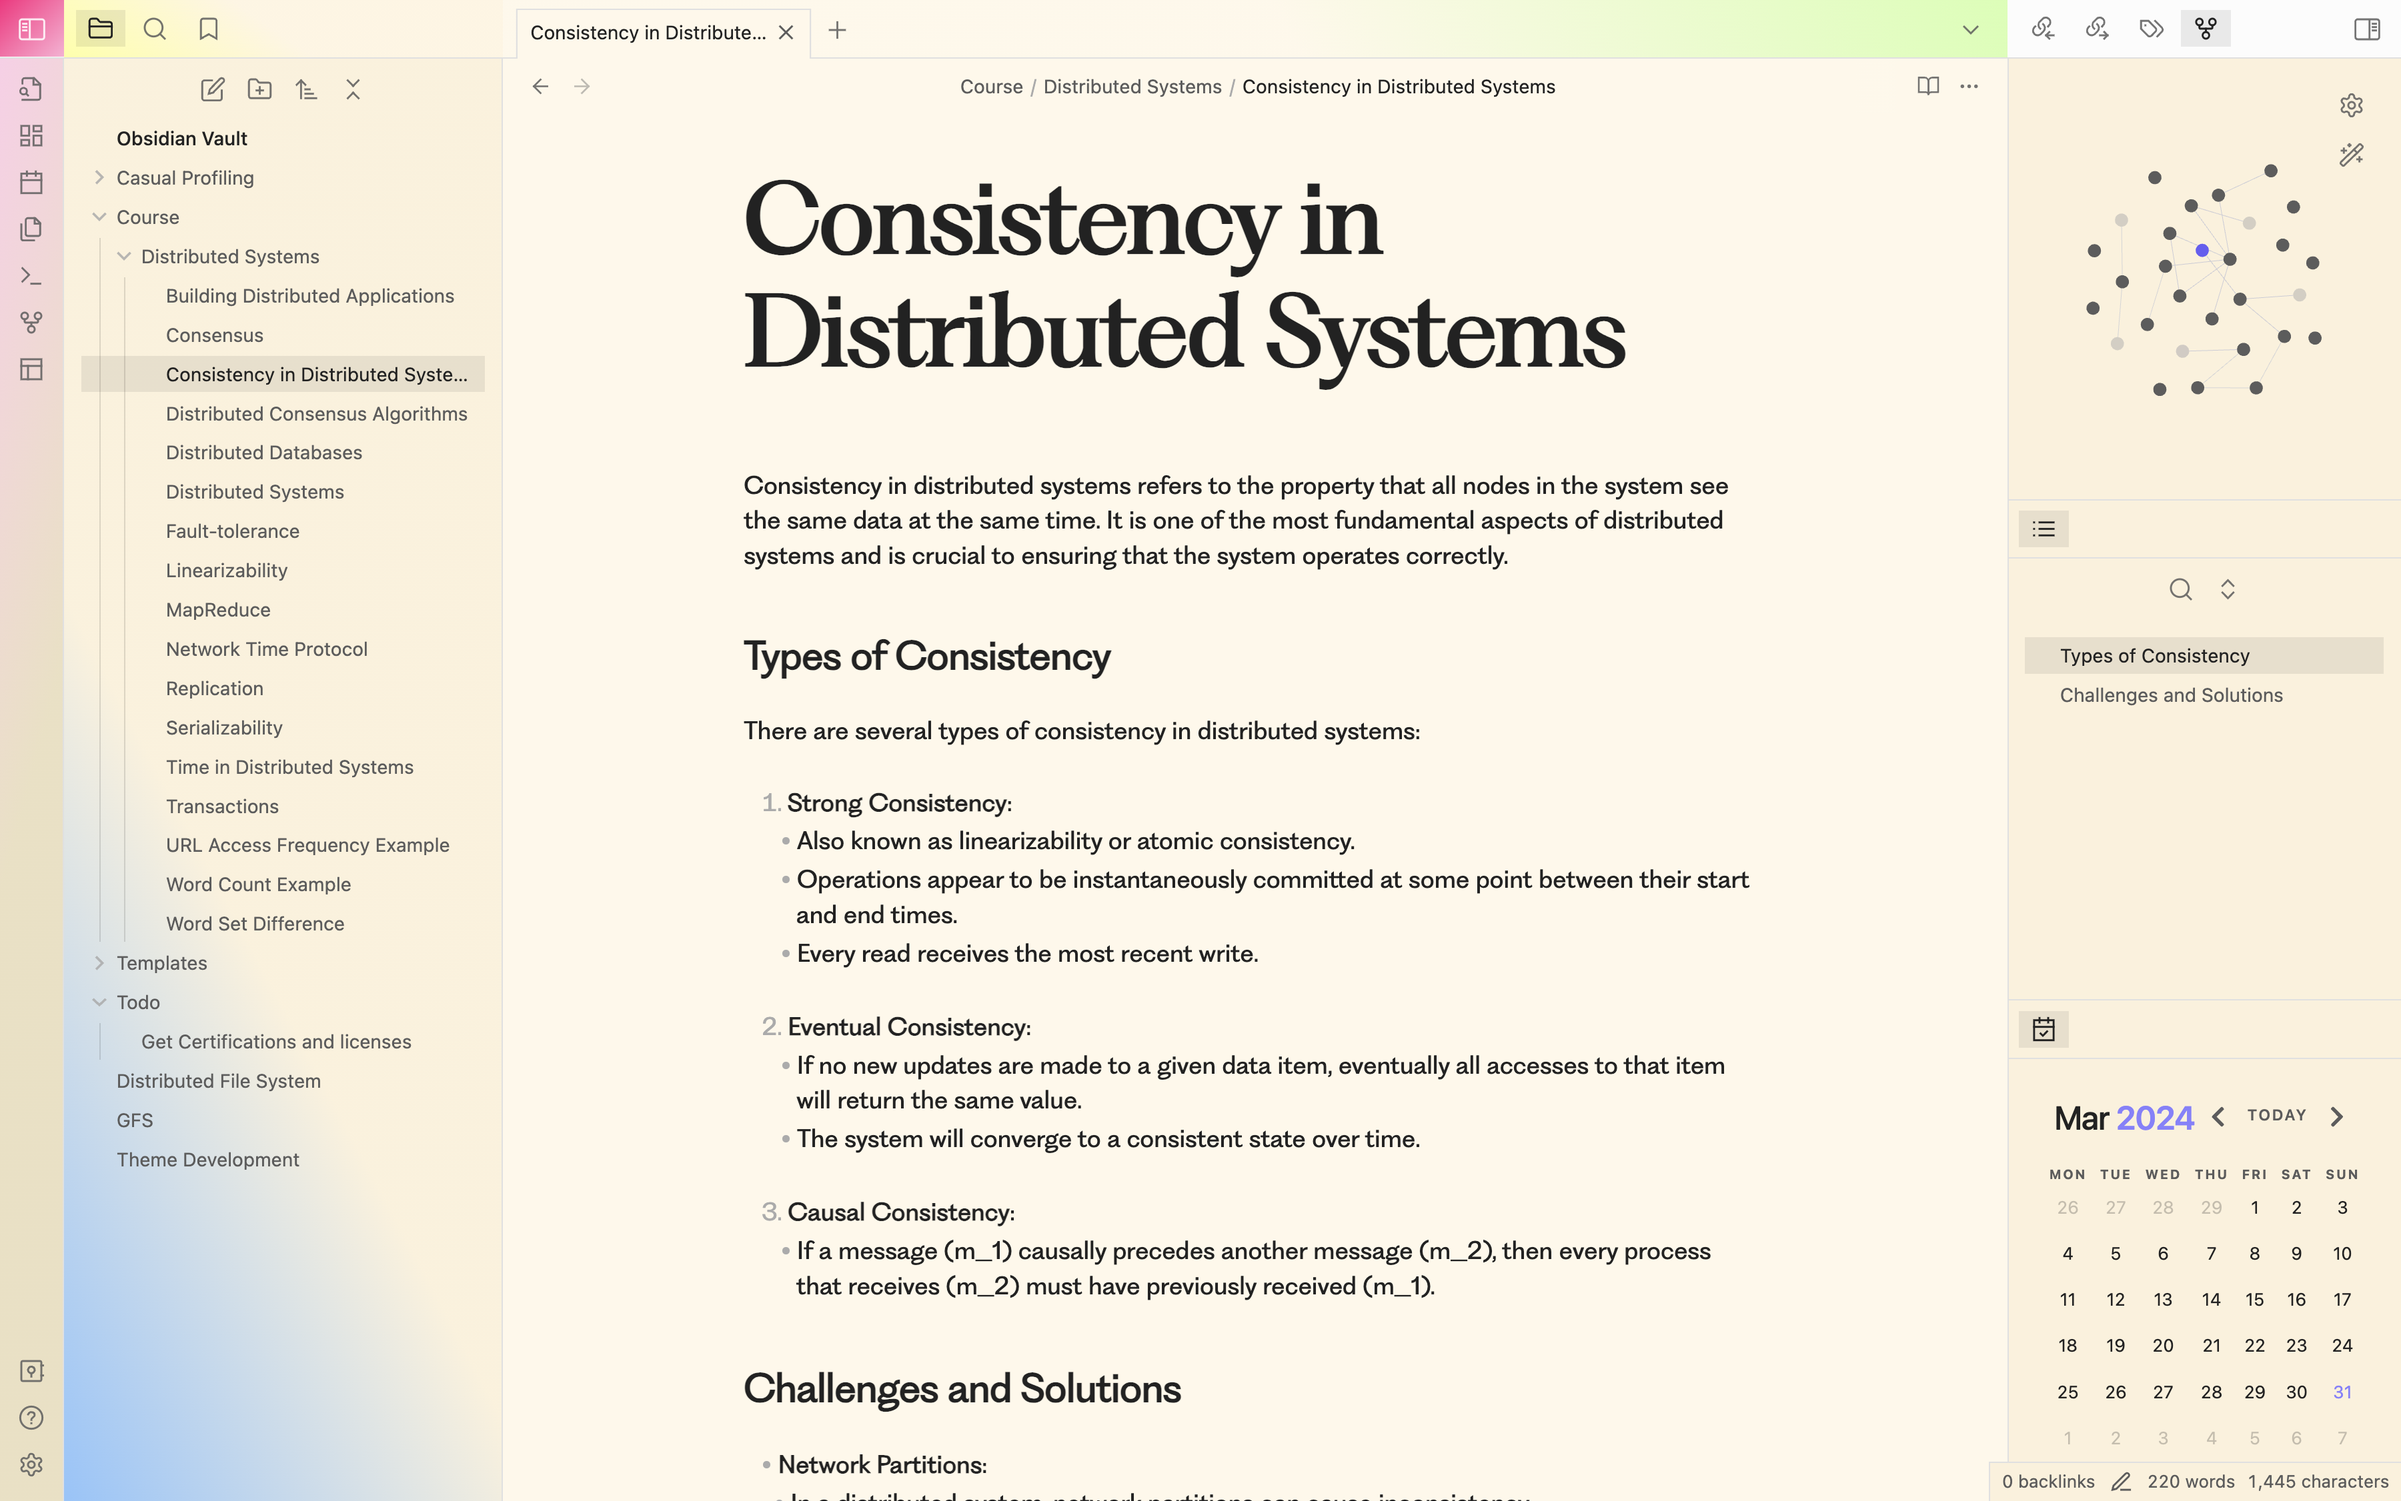
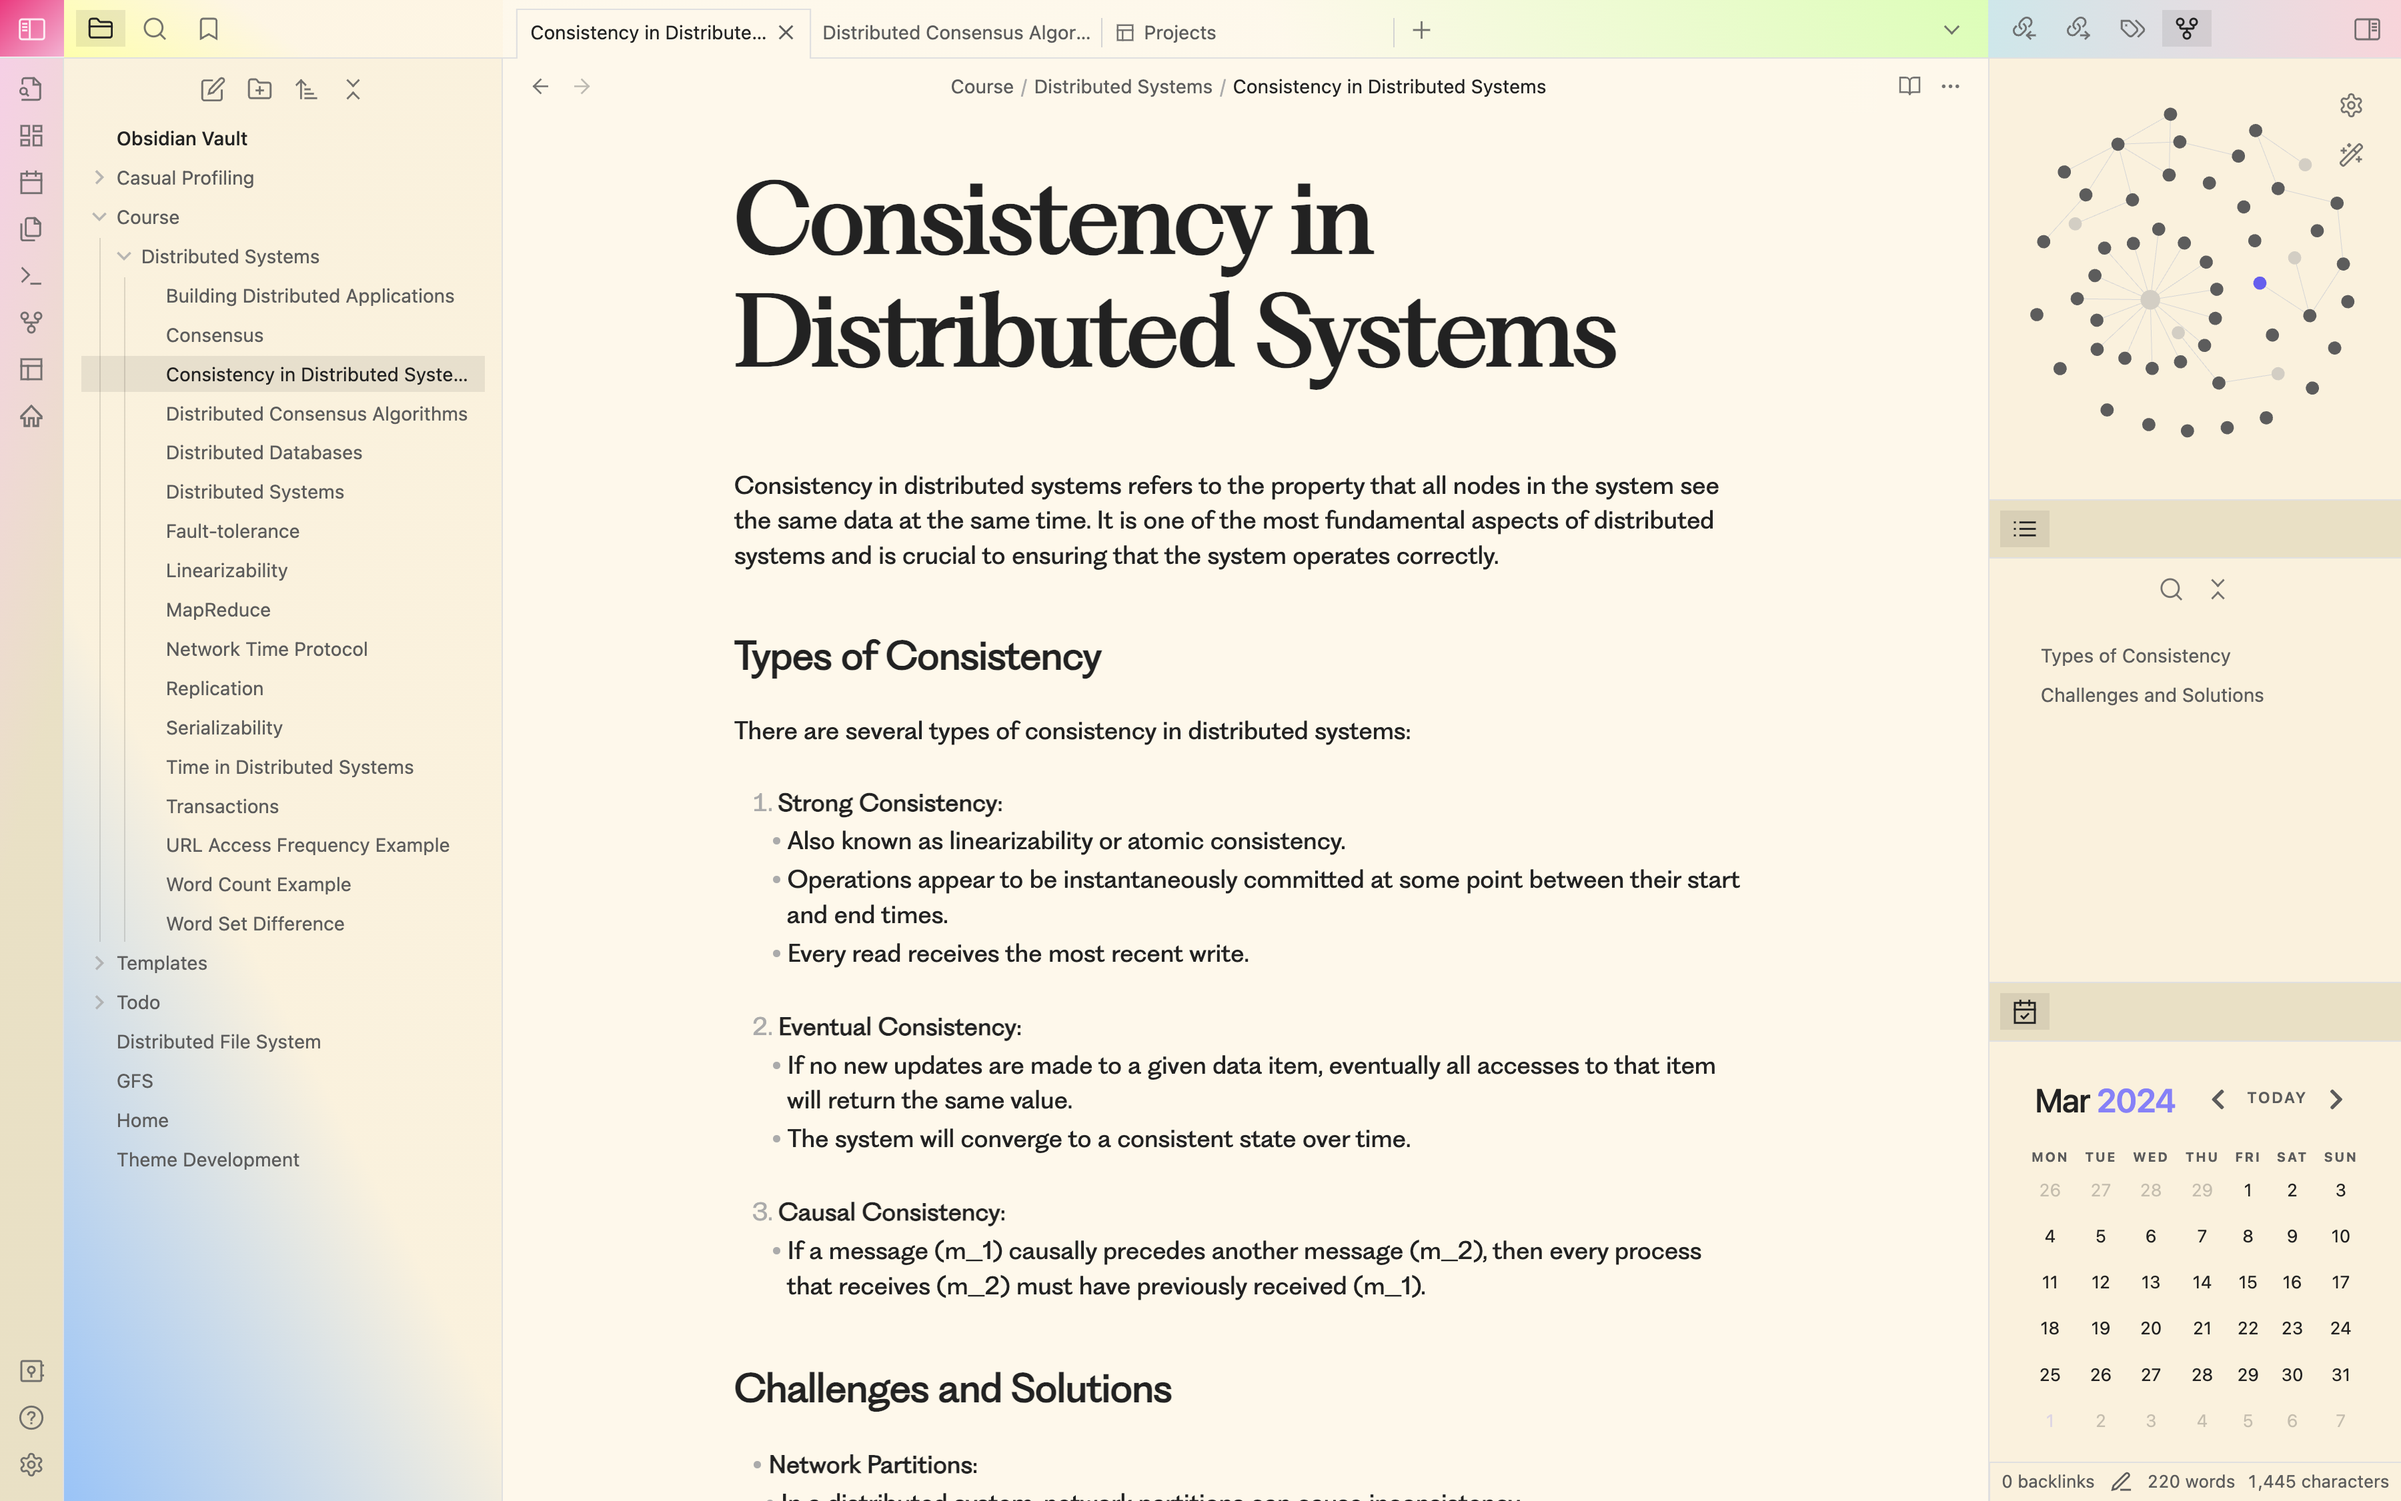
Adds separatation for light and dark theme

diff --git a/theme.css b/theme.css
@@ -46,8 +46,8 @@ body {
 }
 
 .theme-dark {
-    --background-primary: #18004f;
-    --background-secondary: #220070;
+    --background-primary: #000000;
+    --background-secondary: #161616;
 }
 
 .theme-light {
@@ -55,29 +55,38 @@ body {
     --background-secondary: #fcf1db;
 }
 
-.workspace-ribbon {
+.theme-light .workspace-ribbon {
     background-color: #fdcee7;
     background-image: linear-gradient(105deg, #fdcee7 0%, #ebe0c2 50%);
 }
 
-.mod-vertical .workspace-tab-header-container {
+.theme-light .mod-vertical .workspace-tab-header-container {
     background-color: #d4ffb0;
     background-image: linear-gradient(241deg, #d4ffb0 0%, #fff8ea 48%);
 }
 
-.mod-top-left-space .workspace-tab-header-container {
+.theme-light .mod-top-left-space .workspace-tab-header-container {
     background-image: linear-gradient(35deg, #feffa2 0%, #fff5e2 48%);
 }
 
-.mod-left-split .workspace-tabs .workspace-leaf {
+.theme-light .mod-left-split .workspace-tabs .workspace-leaf {
     background-image: linear-gradient(62deg, #8ec5fc 0%, #fcf1db 40%);
 }
 
-.sidebar-toggle-button.mod-left {
+.theme-light .sidebar-toggle-button.mod-left {
     background-color: #ffafd4;
     background-image: linear-gradient(315deg, #ffafd4 0%, #ff187f 100%);
 }
 
-.sidebar-toggle-button.mod-left .clickable-icon {
+.theme-light .sidebar-toggle-button.mod-left .clickable-icon {
     color: white;
+}
+
+.theme-light .mod-top-right-space .workspace-tab-header-container {
+    background-color: #ffa5b3;
+    background-image: linear-gradient(268deg, #ffd3da 0%, #c8e8eb 100%);
+}
+
+.theme-light .workspace-tab-header-container {
+    background-color: #ebe0c2;
 }
